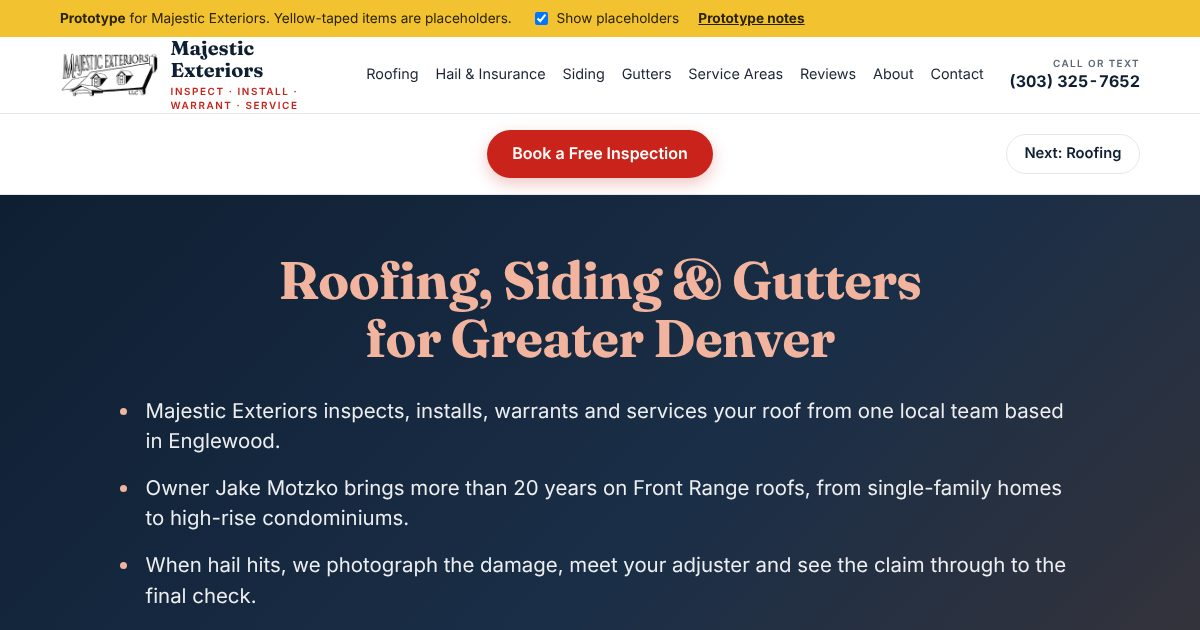
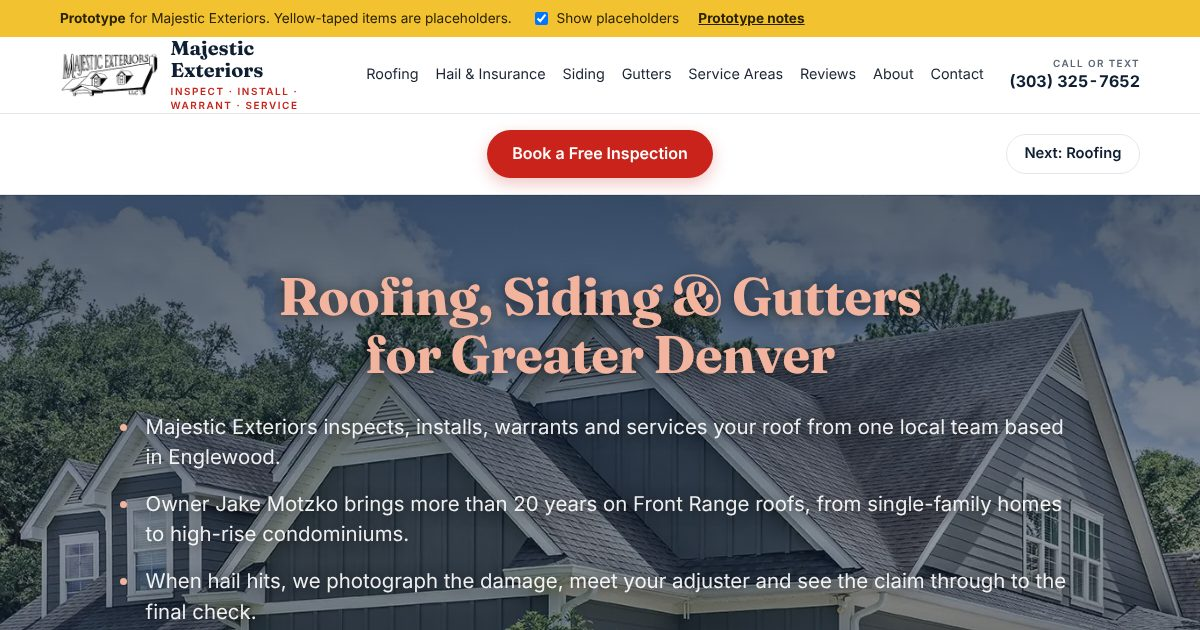
Majestic Exteriors demo: house photo behind the home page hero
Claude-Session: https://claude.ai/code/session_01RKA7VrK7uSHB9Nw22dgKEf

diff --git a/majestic-exteriors-englewood/prototype-notes/index.html b/majestic-exteriors-englewood/prototype-notes/index.html
@@ -32,6 +32,7 @@
 <link rel="preconnect" href="https://fonts.gstatic.com" crossorigin>
 <link rel="stylesheet" href="https://fonts.googleapis.com/css2?family=Fraunces:opsz,wght@9..144,700&family=Inter:wght@400;500;600;700&display=swap">
 <link rel="stylesheet" href="../assets/styles.css">
+
 <script type="application/ld+json">
 {
   "@context": "https://schema.org",
@@ -98,6 +99,7 @@
 <tr><td><b class="sev lo">Only a named employee's email</b></td><td>A buyer sees key-person risk, and leads go cold when one inbox is busy.</td><td>Recommend estimates@ routed to a CRM</td></tr></tbody></table></div>
 <h2>Built in, matching buildwell.partners</h2>
 <ul class="checks">
+<li><b>Hero photo</b> is the house image from the current majesticexteriors.net banner, served as WebP with a JPEG fallback and preloaded. <span class="ph" title="Placeholder: confirm with Jake">Confirm Majestic owns or licensed it; better still, swap in a real Majestic job photo.</span></li>
 <li><b>Real pages at real URLs.</b> Each service, city and the contact page has its own address, title, description, canonical tag and Open Graph card, the way buildwell.partners has /industries/, /pricing/ and /contact/.</li>
 <li><b>One linked schema graph.</b> The home page carries the business (RoofingContractor) with slogan, service catalog, service area, audiences, topics it knows about and a "book an inspection" action, plus WebSite and WebPage. Every other page adds a WebPage with breadcrumbs that points back to the business by its @id.</li>
 <li><b>Visible FAQs that match the schema word for word,</b> in the same two-column layout, so Google and AI assistants can quote them.</li>

diff --git a/majestic-exteriors-englewood/assets/styles.css b/majestic-exteriors-englewood/assets/styles.css
@@ -84,7 +84,9 @@ body.hide-ph .ph{background:none;color:inherit;padding:0;font-weight:inherit}
 .pn-wrap.bottom{border-bottom:0;border-top:1px solid var(--rule)}
 
 /* hero */
-.hero{background:linear-gradient(135deg,#0F1F33 0%,#1A2E47 55%,#3A3438 100%);color:#fff;padding-block:clamp(2.2rem,5vw,3.5rem)}
+.hero{position:relative;color:#fff;padding-block:clamp(2.5rem,6vw,4.5rem);background-color:#0F1F33;background-image:linear-gradient(180deg,rgb(15 31 51/.74) 0%,rgb(15 31 51/.5) 55%,rgb(15 31 51/.78) 100%),url(hero-house-960.webp);background-size:cover;background-position:center 35%}
+@media (min-width:961px){.hero{background-image:linear-gradient(180deg,rgb(15 31 51/.72) 0%,rgb(15 31 51/.46) 55%,rgb(15 31 51/.78) 100%),image-set(url(hero-house.webp) type('image/webp'),url(hero-house.jpg) type('image/jpeg'))}}
+.hero h1,.hero-list li{text-shadow:0 2px 14px rgb(0 0 0/.6)}
 .hero h1{color:var(--accent-soft);text-align:center}
 .hero-list{list-style:none;padding:0;margin:1.8rem auto 0;display:grid;gap:1rem;max-width:960px;font-size:clamp(1.05rem,1.7vw,1.35rem);line-height:1.5}
 .hero-list li{position:relative;padding-left:1.6rem;color:rgb(255 255 255/.92)}

diff --git a/majestic-exteriors-englewood/index.html b/majestic-exteriors-englewood/index.html
@@ -32,6 +32,7 @@
 <link rel="preconnect" href="https://fonts.gstatic.com" crossorigin>
 <link rel="stylesheet" href="https://fonts.googleapis.com/css2?family=Fraunces:opsz,wght@9..144,700&family=Inter:wght@400;500;600;700&display=swap">
 <link rel="stylesheet" href="assets/styles.css">
+<link rel="preload" as="image" type="image/webp" href="assets/hero-house-960.webp" media="(max-width:960px)"><link rel="preload" as="image" type="image/webp" href="assets/hero-house.webp" media="(min-width:961px)">
 <script type="application/ld+json">
 {
   "@context": "https://schema.org",

diff --git a/majestic-exteriors-englewood/service-areas/littleton/index.html b/majestic-exteriors-englewood/service-areas/littleton/index.html
@@ -32,6 +32,7 @@
 <link rel="preconnect" href="https://fonts.gstatic.com" crossorigin>
 <link rel="stylesheet" href="https://fonts.googleapis.com/css2?family=Fraunces:opsz,wght@9..144,700&family=Inter:wght@400;500;600;700&display=swap">
 <link rel="stylesheet" href="../../assets/styles.css">
+
 <script type="application/ld+json">
 {
   "@context": "https://schema.org",

diff --git a/majestic-exteriors-englewood/about/index.html b/majestic-exteriors-englewood/about/index.html
@@ -32,6 +32,7 @@
 <link rel="preconnect" href="https://fonts.gstatic.com" crossorigin>
 <link rel="stylesheet" href="https://fonts.googleapis.com/css2?family=Fraunces:opsz,wght@9..144,700&family=Inter:wght@400;500;600;700&display=swap">
 <link rel="stylesheet" href="../assets/styles.css">
+
 <script type="application/ld+json">
 {
   "@context": "https://schema.org",

diff --git a/majestic-exteriors-englewood/contact/index.html b/majestic-exteriors-englewood/contact/index.html
@@ -32,6 +32,7 @@
 <link rel="preconnect" href="https://fonts.gstatic.com" crossorigin>
 <link rel="stylesheet" href="https://fonts.googleapis.com/css2?family=Fraunces:opsz,wght@9..144,700&family=Inter:wght@400;500;600;700&display=swap">
 <link rel="stylesheet" href="../assets/styles.css">
+
 <script type="application/ld+json">
 {
   "@context": "https://schema.org",

diff --git a/majestic-exteriors-englewood/gutters/index.html b/majestic-exteriors-englewood/gutters/index.html
@@ -32,6 +32,7 @@
 <link rel="preconnect" href="https://fonts.gstatic.com" crossorigin>
 <link rel="stylesheet" href="https://fonts.googleapis.com/css2?family=Fraunces:opsz,wght@9..144,700&family=Inter:wght@400;500;600;700&display=swap">
 <link rel="stylesheet" href="../assets/styles.css">
+
 <script type="application/ld+json">
 {
   "@context": "https://schema.org",

diff --git a/majestic-exteriors-englewood/hail-damage-insurance-claims/index.html b/majestic-exteriors-englewood/hail-damage-insurance-claims/index.html
@@ -32,6 +32,7 @@
 <link rel="preconnect" href="https://fonts.gstatic.com" crossorigin>
 <link rel="stylesheet" href="https://fonts.googleapis.com/css2?family=Fraunces:opsz,wght@9..144,700&family=Inter:wght@400;500;600;700&display=swap">
 <link rel="stylesheet" href="../assets/styles.css">
+
 <script type="application/ld+json">
 {
   "@context": "https://schema.org",

diff --git a/majestic-exteriors-englewood/reviews/index.html b/majestic-exteriors-englewood/reviews/index.html
@@ -32,6 +32,7 @@
 <link rel="preconnect" href="https://fonts.gstatic.com" crossorigin>
 <link rel="stylesheet" href="https://fonts.googleapis.com/css2?family=Fraunces:opsz,wght@9..144,700&family=Inter:wght@400;500;600;700&display=swap">
 <link rel="stylesheet" href="../assets/styles.css">
+
 <script type="application/ld+json">
 {
   "@context": "https://schema.org",

diff --git a/majestic-exteriors-englewood/roofing/index.html b/majestic-exteriors-englewood/roofing/index.html
@@ -32,6 +32,7 @@
 <link rel="preconnect" href="https://fonts.gstatic.com" crossorigin>
 <link rel="stylesheet" href="https://fonts.googleapis.com/css2?family=Fraunces:opsz,wght@9..144,700&family=Inter:wght@400;500;600;700&display=swap">
 <link rel="stylesheet" href="../assets/styles.css">
+
 <script type="application/ld+json">
 {
   "@context": "https://schema.org",

diff --git a/majestic-exteriors-englewood/service-areas/index.html b/majestic-exteriors-englewood/service-areas/index.html
@@ -32,6 +32,7 @@
 <link rel="preconnect" href="https://fonts.gstatic.com" crossorigin>
 <link rel="stylesheet" href="https://fonts.googleapis.com/css2?family=Fraunces:opsz,wght@9..144,700&family=Inter:wght@400;500;600;700&display=swap">
 <link rel="stylesheet" href="../assets/styles.css">
+
 <script type="application/ld+json">
 {
   "@context": "https://schema.org",

diff --git a/majestic-exteriors-englewood/siding/index.html b/majestic-exteriors-englewood/siding/index.html
@@ -32,6 +32,7 @@
 <link rel="preconnect" href="https://fonts.gstatic.com" crossorigin>
 <link rel="stylesheet" href="https://fonts.googleapis.com/css2?family=Fraunces:opsz,wght@9..144,700&family=Inter:wght@400;500;600;700&display=swap">
 <link rel="stylesheet" href="../assets/styles.css">
+
 <script type="application/ld+json">
 {
   "@context": "https://schema.org",
